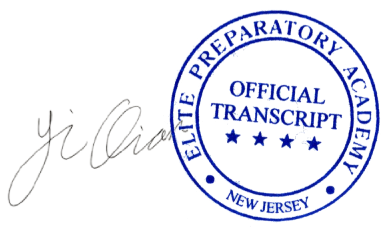
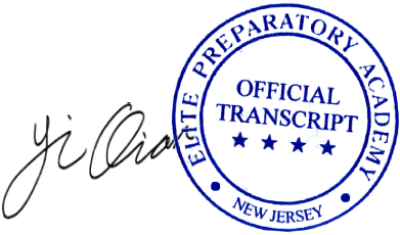
updat new signature

Changed region(s): [[0.0, 0.0, 1.0, 1.0]]

diff --git a/resources/views/pdf/student_report.blade.php b/resources/views/pdf/student_report.blade.php
@@ -15,7 +15,7 @@
 .mainTableFirst {
     background: url({{ public_path('script-bg.png') }}) no-repeat;
     background-size: cover;
-    padding: 40px 70px 30px;
+    padding: 30px 70px 20px;
 }
 .column:nth-child(2), .columns:nth-child(2) {
     padding-left: 5%;
@@ -534,7 +534,7 @@ p {
                 </div>
                 <div class="column" style="padding-left:5%;">
                     <div class="signatureImg" style="text-align: center;">
-                        <img src="{{ public_path('script-sign.png') }}" style="width: 220px;">
+                        <img src="{{ public_path('script-sign.png') }}" style="width: 240px;">
                         <p class="signaturetxt" style="border-top: 2px solid #000000;">Registrar</p>
                     </div>
                 </div>
